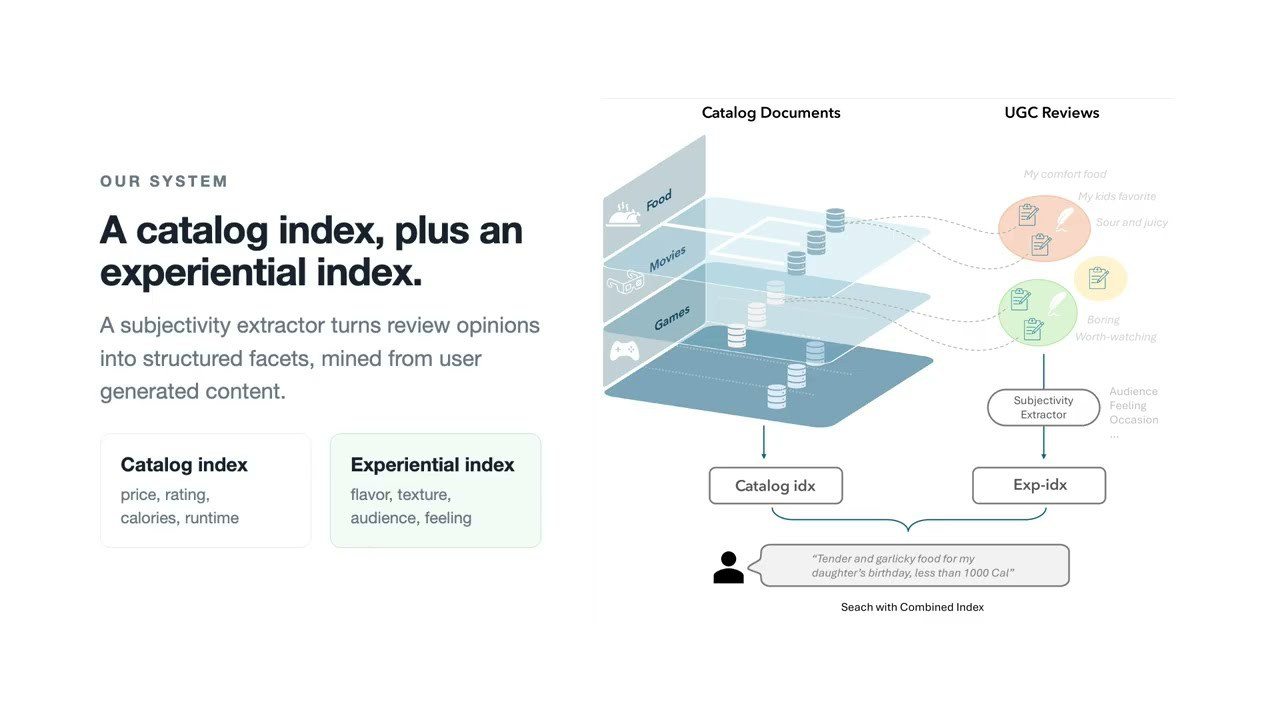
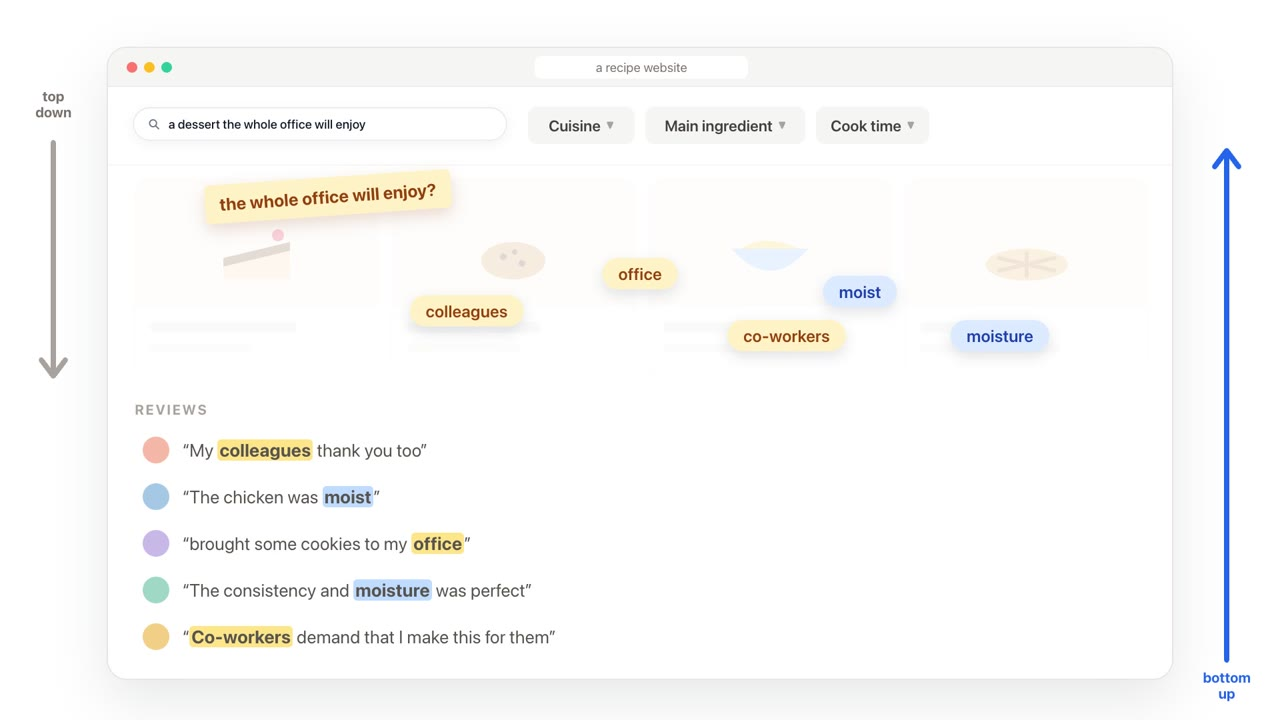
SER: new demo video (gwKzpr1FuOM) and thumbnail from it

diff --git a/index.html b/index.html
@@ -16,8 +16,8 @@
 <link rel="preconnect" href="https://fonts.googleapis.com">
 <link rel="preconnect" href="https://fonts.gstatic.com" crossorigin>
 <link rel="stylesheet" href="https://fonts.googleapis.com/css2?family=Geist:wght@400;500;600;700&display=swap">
-<link rel="stylesheet" href="assets/css/site.css?v=20261029e">
-<script type="module" src="assets/js/app.js?v=20261029e"></script>
+<link rel="stylesheet" href="assets/css/site.css?v=20261102a">
+<script type="module" src="assets/js/app.js?v=20261102a"></script>
 <!-- ld:begin --><script type="application/ld+json">{"@context":"https://schema.org","@graph":[{"@type":"Person","@id":"https://leolee7.github.io/#li-liu","name":"Li Liu","url":"https://leolee7.github.io/","email":"mailto:lliu112@ucsc.edu","image":"https://leolee7.github.io/assets/img/avatar.jpg","jobTitle":"Ph.D. Candidate, Computer Science and Engineering","affiliation":{"@type":"CollegeOrUniversity","name":"University of California, Santa Cruz"},"alumniOf":{"@type":"CollegeOrUniversity","name":"Zhejiang University"},"sameAs":["https://scholar.google.com/citations?user=hLHzhqkAAAAJ","https://github.com/LeoLee7","https://www.linkedin.com/in/li-liu-a6a92b259/"],"description":"Li Liu is a Ph.D. candidate in Computer Science and Engineering at UC Santa Cruz, advised by Prof. Leilani H. Gilpin. Li studies spatial intelligence in multimodal models and the agents built on them: how models perceive space, build an internal map of it, and act when what they see is not enough. Li has interned three times as an Applied Scientist at Amazon and is on the 2027 job market for Research Scientist, Applied Scientist, and ML Engineer roles.","knowsAbout":["Spatial intelligence","Multimodal large language models","Vision-language models","AI agents","Spatial reasoning","Tactile interfaces","Haptics","Accessibility","Human-in-the-loop systems","Conformal prediction"]},{"@type":"ScholarlyArticle","headline":"Learning to Draw ASCII Improves Spatial Reasoning in Language Models","author":[{"@type":"Person","name":"Shiyuan Huang"},{"@type":"Person","name":"Li Liu"},{"@type":"Person","name":"Jincheng He"},{"@type":"Person","name":"Leilani H. Gilpin"}],"datePublished":"2026","isPartOf":"Conference on Language Modeling (COLM)","url":"https://arxiv.org/abs/2604.14641"},{"@type":"ScholarlyArticle","headline":"From Anonymous Shapes to Named Places: A Tool for Braille and Place-Semantic Annotation of Tactile Maps","author":[{"@type":"Person","name":"Li Liu"},{"@type":"Person","name":"Ashmita Dua"},{"@type":"Person","name":"Jiaming Qu"},{"@type":"Person","name":"David T. Lee"},{"@type":"Person","name":"Leilani H. Gilpin"}],"datePublished":"2026","isPartOf":"ASSETS, Posters and Demonstrations","url":"https://doi.org/10.1145/3797867.3841235"},{"@type":"ScholarlyArticle","headline":"Pattern Discovery with Wide-Lens Analysis and Sharp-Focus Validation","author":[{"@type":"Person","name":"Li Liu"},{"@type":"Person","name":"Omar Alonso"},{"@type":"Person","name":"Giorgio Ballardin"}],"datePublished":"2026","isPartOf":"The Web Conference (WWW), Demo Track","url":"https://doi.org/10.1145/3774905.3793105"},{"@type":"ScholarlyArticle","headline":"Skills on Board: Maintaining Agent Skills as Typed Data","author":[{"@type":"Person","name":"Li Liu"},{"@type":"Person","name":"Jiaming Qu"},{"@type":"Person","name":"Zhiyu Chen"},{"@type":"Person","name":"Pei Zhang"},{"@type":"Person","name":"Omar Alonso"}],"datePublished":"2026","isPartOf":"Under review","url":"https://youtu.be/G_XJpzWnH_c"},{"@type":"ScholarlyArticle","headline":"“I didn’t know how to read a map, but now I can”: TouchingSpace, an Audio-Haptic Map for Blind and Low-Vision Readers","author":[{"@type":"Person","name":"Li Liu"},{"@type":"Person","name":"Yihe Wang"},{"@type":"Person","name":"Jiaming Qu"},{"@type":"Person","name":"Ashmita Dua"},{"@type":"Person","name":"David T. Lee"},{"@type":"Person","name":"Leilani H. Gilpin"}],"datePublished":"2026","isPartOf":"arXiv preprint","url":"https://arxiv.org/abs/2609.36404"},{"@type":"ScholarlyArticle","headline":"Right This Way: Can VLMs Guide Us to See More to Answer Questions?","author":[{"@type":"Person","name":"Li Liu"},{"@type":"Person","name":"Diji Yang"},{"@type":"Person","name":"Sijia Zhong"},{"@type":"Person","name":"Kalyana Suma Sree Tholeti"},{"@type":"Person","name":"Lei Ding"},{"@type":"Person","name":"Yi Zhang"},{"@type":"Person","name":"Leilani H. Gilpin"}],"datePublished":"2024","isPartOf":"Neural Information Processing Systems (NeurIPS)","url":"https://proceedings.neurips.cc/paper_files/paper/2024/file/efe4e50d492fedc0dfd2959f3320a974-Paper-Conference.pdf"},{"@type":"ScholarlyArticle","headline":"A Tri-Light Warning System for Hospitalized COVID-19 Patients: Credibility-Based Risk Stratification for Future Pandemic Preparedness","author":[{"@type":"Person","name":"Chuanjun Xu"},{"@type":"Person","name":"Qinmei Xu"},{"@type":"Person","name":"Li Liu"},{"@type":"Person","name":"Mu Zhou"},{"@type":"Person","name":"Zijian Xing"},{"@type":"Person","name":"Zhen Zhou"},{"@type":"Person","name":"Danyang Ren"},{"@type":"Person","name":"Changsheng Zhou"},{"@type":"Person","name":"Longjiang Zhang"},{"@type":"Person","name":"Xiao Li"},{"@type":"Person","name":"Xianghao Zhan"},{"@type":"Person","name":"Olivier Gevaert"},{"@type":"Person","name":"Guangming Lu"}],"datePublished":"2024","isPartOf":"European Journal of Radiology Open","url":"https://www.sciencedirect.com/science/article/pii/S2352047724000583"},{"@type":"ScholarlyArticle","headline":"A Survey on Human-AI Collaboration with Large Foundation Models","author":[{"@type":"Person","name":"Vanshika Vats"},{"@type":"Person","name":"Marzia Binta Nizam"},{"@type":"Person","name":"Minghao Liu"},{"@type":"Person","name":"Ziyuan Wang"},{"@type":"Person","name":"Richard Ho"},{"@type":"Person","name":"Mohnish Sai Prasad"},{"@type":"Person","name":"Vincent Titterton"},{"@type":"Person","name":"Sai Venkat Malreddy"},{"@type":"Person","name":"Riya Aggarwal"},{"@type":"Person","name":"Yanwen Xu"},{"@type":"Person","name":"Lei Ding"},{"@type":"Person","name":"Jay Mehta"},{"@type":"Person","name":"Nathan Grinnell"},{"@type":"Person","name":"Li Liu"},{"@type":"Person","name":"Sijia Zhong"},{"@type":"Person","name":"Devanathan Nallur Gandamani"},{"@type":"Person","name":"Xinyi Tang"},{"@type":"Person","name":"Rohan Ghosalkar"},{"@type":"Person","name":"Celeste Shen"},{"@type":"Person","name":"Rachel Shen"},{"@type":"Person","name":"Nafisa Hussain"},{"@type":"Person","name":"Kesav Ravichandran"},{"@type":"Person","name":"James Davis"}],"datePublished":"2026","isPartOf":"ACM Transactions on Intelligent Systems and Technology","url":"https://doi.org/10.1145/3841472"},{"@type":"ScholarlyArticle","headline":"SwinMM: Masked Multi-view with Swin Transformers for 3D Medical Image Segmentation","author":[{"@type":"Person","name":"Yiqing Wang"},{"@type":"Person","name":"Zihan Li"},{"@type":"Person","name":"Zihao Wei"},{"@type":"Person","name":"Jieru Mei"},{"@type":"Person","name":"Li Liu"},{"@type":"Person","name":"Chen Wang"},{"@type":"Person","name":"Shengtian Sang"},{"@type":"Person","name":"Alan Yuille"},{"@type":"Person","name":"Cihang Xie"},{"@type":"Person","name":"Yuyin Zhou"}],"datePublished":"2023","isPartOf":"MICCAI","url":"https://arxiv.org/abs/2307.12591"},{"@type":"ScholarlyArticle","headline":"Bimodal Fusion Network for Basic Taste Sensation Recognition from Electroencephalography and Electromyography","author":[{"@type":"Person","name":"Han Gao"},{"@type":"Person","name":"Shuo Zhao"},{"@type":"Person","name":"Huiyan Li"},{"@type":"Person","name":"Li Liu"},{"@type":"Person","name":"You Wang"},{"@type":"Person","name":"Ruifen Hu"},{"@type":"Person","name":"Jin Zhang"},{"@type":"Person","name":"Guang Li"}],"datePublished":"2023","isPartOf":"ICASSP","url":"https://ieeexplore.ieee.org/document/10095117"},{"@type":"ScholarlyArticle","headline":"Basic Taste Sensation Recognition from EEG Based on Multi-Scale Convolutional Neural Network with Residual Learning","author":[{"@type":"Person","name":"Han Gao"},{"@type":"Person","name":"Shuo Zhao"},{"@type":"Person","name":"Huiyan Li"},{"@type":"Person","name":"Li Liu"},{"@type":"Person","name":"Hengyang Wang"},{"@type":"Person","name":"You Wang"},{"@type":"Person","name":"Zhiyuan Luo"},{"@type":"Person","name":"Jin Zhang"},{"@type":"Person","name":"Guang Li"}],"datePublished":"2023","isPartOf":"IEEE Transactions on Instrumentation and Measurement","url":"https://ieeexplore.ieee.org/abstract/document/10138514/"},{"@type":"ScholarlyArticle","headline":"Silent Speech Interface with Vocal Speaker Assistance Based on Convolution-augmented Transformer","author":[{"@type":"Person","name":"Huiyan Li"},{"@type":"Person","name":"Yihao Liang"},{"@type":"Person","name":"Han Gao"},{"@type":"Person","name":"Li Liu"},{"@type":"Person","name":"You Wang"},{"@type":"Person","name":"Daqi Chen"},{"@type":"Person","name":"Zhiyuan Luo"},{"@type":"Person","name":"Guang Li"}],"datePublished":"2023","isPartOf":"IEEE Transactions on Instrumentation and Measurement","url":"https://ieeexplore.ieee.org/document/10121584"},{"@type":"ScholarlyArticle","headline":"CPSC: Conformal Prediction With Shrunken Centroids for Efficient Prediction Reliability Quantification and Data Augmentation, a Case in Alternative Herbal Medicine Classification With Electronic Nose","author":[{"@type":"Person","name":"Li Liu"},{"@type":"Person","name":"Xianghao Zhan"},{"@type":"Person","name":"Xikai Yang"},{"@type":"Person","name":"Xiaoqing Guan"},{"@type":"Person","name":"Rumeng Wu"},{"@type":"Person","name":"Zhan Wang"},{"@type":"Person","name":"Zhiyuan Luo"},{"@type":"Person","name":"You Wang"},{"@type":"Person","name":"Guang Li"}],"datePublished":"2022","isPartOf":"IEEE Transactions on Instrumentation and Measurement","url":"https://ieeexplore.ieee.org/abstract/document/9667498"},{"@type":"ScholarlyArticle","headline":"Unsupervised Cross-User Adaptation in Taste Sensation Recognition Based on Surface Electromyography with Conformal Prediction and Domain Regularized Component Analysis","author":[{"@type":"Person","name":"Hengyang Wang"},{"@type":"Person","name":"Xianghao Zhan"},{"@type":"Person","name":"Li Liu"},{"@type":"Person","name":"Asif Ullah"},{"@type":"Person","name":"Huiyan Li"},{"@type":"Person","name":"Han Gao"},{"@type":"Person","name":"You Wang"},{"@type":"Person","name":"Ruifen Hu"},{"@type":"Person","name":"Guang Li"}],"datePublished":"2022","isPartOf":"IEEE Transactions on Instrumentation and Measurement","url":"https://ieeexplore.ieee.org/document/9777907"},{"@type":"ScholarlyArticle","headline":"Bag of Tricks for FGSM Adversarial Training","author":[{"@type":"Person","name":"Zichao Li"},{"@type":"Person","name":"Li Liu"},{"@type":"Person","name":"Zeyu Wang"},{"@type":"Person","name":"Yuyin Zhou"},{"@type":"Person","name":"Cihang Xie"}],"datePublished":"2022","isPartOf":"arXiv preprint","url":"https://arxiv.org/abs/2209.02684"},{"@type":"ScholarlyArticle","headline":"Boost AI Power: Data Augmentation Strategies With Unlabeled Data and Conformal Prediction, a Case in Alternative Herbal Medicine Discrimination With Electronic Nose","author":[{"@type":"Person","name":"Li Liu"},{"@type":"Person","name":"Xianghao Zhan"},{"@type":"Person","name":"Rumeng Wu"},{"@type":"Person","name":"Xiaoqing Guan"},{"@type":"Person","name":"Zhan Wang"},{"@type":"Person","name":"Wei Zhang"},{"@type":"Person","name":"Mert Pilanci"},{"@type":"Person","name":"You Wang"},{"@type":"Person","name":"Zhiyuan Luo"},{"@type":"Person","name":"Guang Li"}],"datePublished":"2021","isPartOf":"IEEE Sensors Journal","url":"https://ieeexplore.ieee.org/abstract/document/9505688"},{"@type":"ScholarlyArticle","headline":"Classifying Herbal Medicine Origins by Temporal and Spectral Data Mining of Electronic Nose","author":[{"@type":"Person","name":"Li Liu"},{"@type":"Person","name":"Xianghao Zhan"},{"@type":"Person","name":"Ziheng Duan"},{"@type":"Person","name":"Yi Wu"},{"@type":"Person","name":"Rumeng Wu"},{"@type":"Person","name":"Xiaoqing Guan"},{"@type":"Person","name":"Zhan Wang"},{"@type":"Person","name":"You Wang"},{"@type":"Person","name":"Guang Li"}],"datePublished":"2021","isPartOf":"arXiv preprint","url":"https://arxiv.org/abs/2104.06640"},{"@type":"ScholarlyArticle","headline":"Quantitatively Recognizing Stimuli Intensity of Primary Taste Based on Surface Electromyography","author":[{"@type":"Person","name":"Hengyang Wang"},{"@type":"Person","name":"Dongcheng Lu"},{"@type":"Person","name":"Li Liu"},{"@type":"Person","name":"Han Gao"},{"@type":"Person","name":"Rumeng Wu"},{"@type":"Person","name":"Yueling Zhou"},{"@type":"Person","name":"Qing Ai"},{"@type":"Person","name":"You Wang"},{"@type":"Person","name":"Guang Li"}],"datePublished":"2021","isPartOf":"Sensors","url":"https://www.mdpi.com/1424-8220/21/21/6965"}]}</script><!-- ld:end -->
 </head>
 <body>

diff --git a/assets/js/content.js b/assets/js/content.js
@@ -99,7 +99,7 @@ export const PROJECTS = [
     links: [["Video", "https://youtu.be/G_XJpzWnH_c"]] },
   { slug: "ser", theme: "hai", name: "SER", img: "ser", venue: "Amazon internship, 2024", short: "Search for what reviews know: who a product is for, how it feels, and the occasion it fits.",
     line: "A search system that turns customer reviews into search facets, each linked to the review sentence behind it, for needs catalogs do not record. On recipes it finds 18% more facet matches than keyword search.",
-    links: [["Video", "https://youtu.be/TGy4yoTbdyI"]] },
+    links: [["Video", "https://youtu.be/gwKzpr1FuOM"]] },
   { slug: "swinmm", theme: "hea", pub: "SwinMM", name: "SwinMM", img: "swinmm", venue: "MICCAI 2023",
     short: "Self-supervised multi-view pre-training for 3D medical image segmentation.",
     line: "Masked multi-view pre-training with Swin Transformers for accurate and data-efficient 3D medical image segmentation.",
@@ -357,7 +357,7 @@ export const EDU_THEME = [
   { logo: "ucsc", deg: `Ph.D., Computer Science and Engineering, UC Santa Cruz`, org: "Advised by Leilani H. Gilpin, Sep 2022 to May 2027", theme: "Spatial intelligence in multimodal models and agents" },
 ];
 
-export const VIDEOS = { touchingspace: { id: "SRBqu2IxBNY", thumb: "yt_ts" }, "skills-on-board": { id: "G_XJpzWnH_c", thumb: "yt_sob" }, "lotus-pavilion": { id: "9G6kR8N1WFM", thumb: "yt_lotus" }, "amazon-2026": { id: "G_XJpzWnH_c", thumb: "yt_sob" }, ser: { id: "TGy4yoTbdyI", thumb: "yt_ser" }, "tactile-annotation": { id: "4KqVa0DeqdM", thumb: "yt_tactile" } };
+export const VIDEOS = { touchingspace: { id: "SRBqu2IxBNY", thumb: "yt_ts" }, "skills-on-board": { id: "G_XJpzWnH_c", thumb: "yt_sob" }, "lotus-pavilion": { id: "9G6kR8N1WFM", thumb: "yt_lotus" }, "amazon-2026": { id: "G_XJpzWnH_c", thumb: "yt_sob" }, ser: { id: "gwKzpr1FuOM", thumb: "yt_ser" }, "tactile-annotation": { id: "4KqVa0DeqdM", thumb: "yt_tactile" } };
 
 export const PUBS = [
   { img: "colm", y: 2026, v: "COLM", vy: "2026", top: 1, sel: 1, first: 1, tags: ["spa","llm"],
@@ -438,7 +438,7 @@ export const PUBS = [
 export const AVATAR = "assets/img/avatar.jpg";
 export const TEASERS = {
  "yt_sob": { "a": "assets/img/video/skillsonboard.jpg" },
- "yt_ser": { "a": "assets/img/video/ser.jpg" },
+ "yt_ser": { "a": "assets/img/video/ser.jpg?v=20261102a" },
  "yt_tactile": { "a": "assets/img/video/tactile.jpg" },
  "fgsm": { "a": "assets/img/papers/fgsm.jpg", "full": "assets/img/full/fgsm.png" },
  "trilight-overview": { "a": "assets/img/papers/trilight-overview.jpg", "full": "assets/img/full/trilight-overview.jpg" },

diff --git a/assets/js/app.js b/assets/js/app.js
@@ -1,9 +1,9 @@
-import { VENUE, HIGHLIGHTS, TOPICS, SCHOLAR, PROJECTS, OVERVIEW_EARLY, OVERVIEW, NEWS, EXPERIENCE, EDUCATION, GROUPS, THEMES, TIER, PRIMARY, EDU_THEME, VIDEOS, PUBS, AVATAR, TEASERS, ART, LOGOS, TECH, HB, KEY, ECHO, HEADLINE, PHOTOS, LENSES, CORE_IDEA } from "./content.js?v=20261029e";
-import { ABSTRACTS } from "./abstracts.js?v=20261029e";
-import { STORY } from "./story.js?v=20261029e";
-import { guideHTML, mountGuide } from "./guide-demo.js?v=20261029e";
-import { printScrollHTML, mountPrintScroll } from "./print-scroll.js?v=20261029e";
-import { asciiHeroHTML, asciiLabHTML, asciiRolesHTML, mountAscii } from "./ascii-scene.js?v=20261029e";
+import { VENUE, HIGHLIGHTS, TOPICS, SCHOLAR, PROJECTS, OVERVIEW_EARLY, OVERVIEW, NEWS, EXPERIENCE, EDUCATION, GROUPS, THEMES, TIER, PRIMARY, EDU_THEME, VIDEOS, PUBS, AVATAR, TEASERS, ART, LOGOS, TECH, HB, KEY, ECHO, HEADLINE, PHOTOS, LENSES, CORE_IDEA } from "./content.js?v=20261102a";
+import { ABSTRACTS } from "./abstracts.js?v=20261102a";
+import { STORY } from "./story.js?v=20261102a";
+import { guideHTML, mountGuide } from "./guide-demo.js?v=20261102a";
+import { printScrollHTML, mountPrintScroll } from "./print-scroll.js?v=20261102a";
+import { asciiHeroHTML, asciiLabHTML, asciiRolesHTML, mountAscii } from "./ascii-scene.js?v=20261102a";
 
 const state = { scope: "sel", topic: "all" };
 const esc = s => s.replace(/&/g, "&amp;").replace(/</g, "&lt;");
